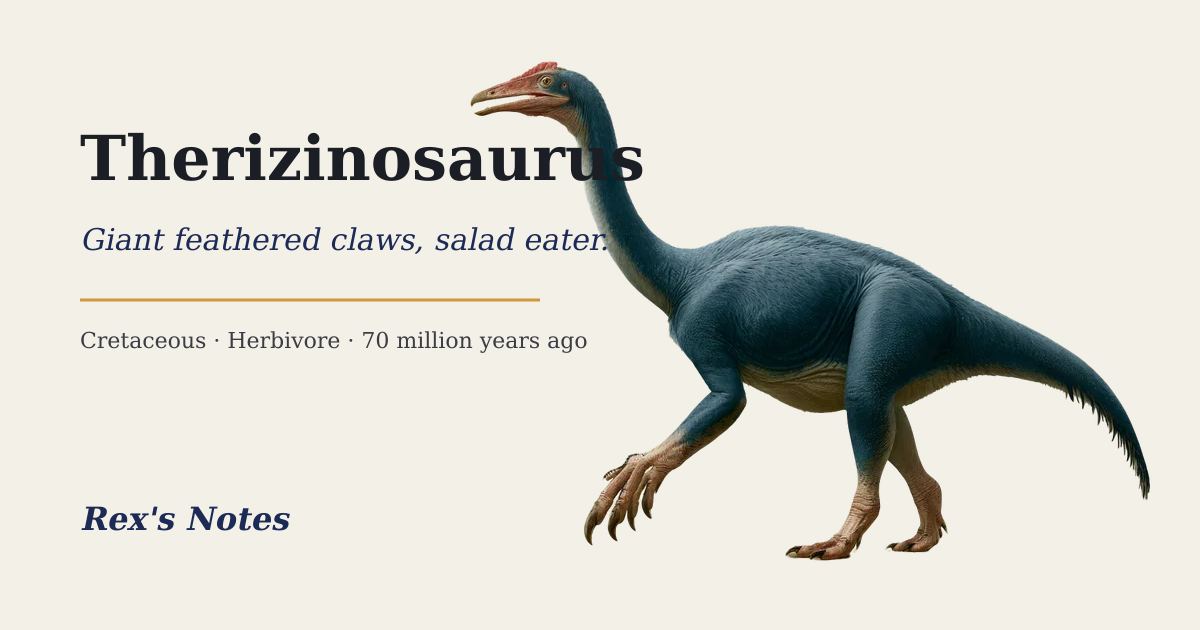
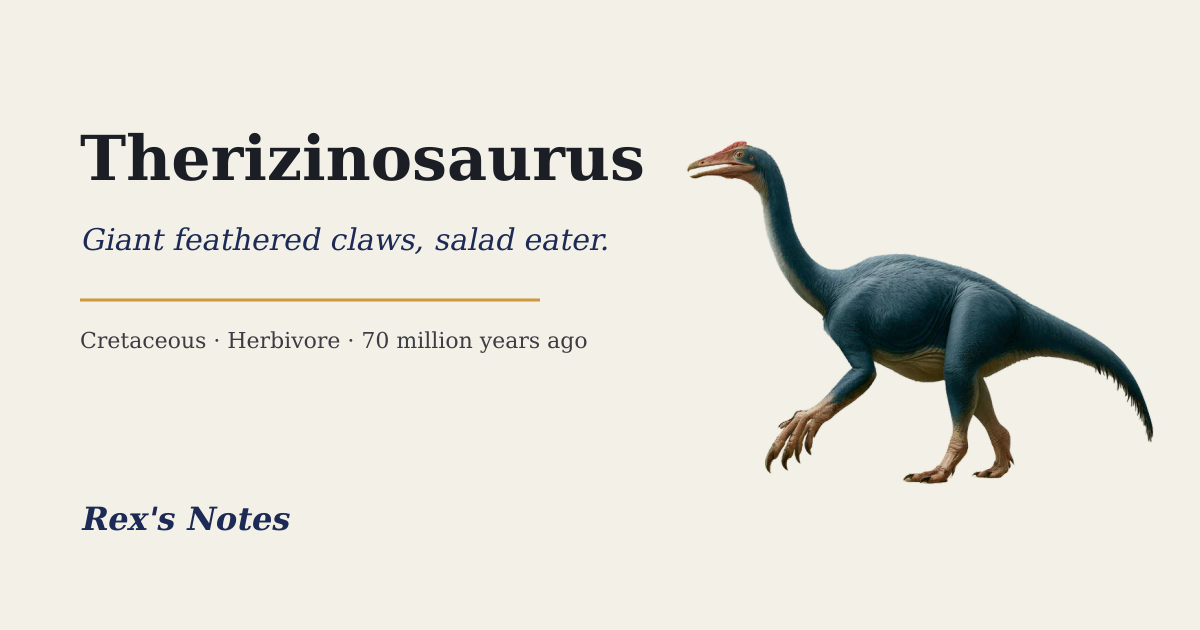
Fix OG layout overlap — home + per-species cap dino width
The home og-image had T. rex's tail covering 'Rex's Notes', so the
share preview read 'Rex's Not' with the dino sitting on the 'es'.
Tighter layout:

- Home og-image.png regenerated. Title font 110 -> 88px (spans ~380px
  in a 540px-wide panel), dino capped to 480x480 fit:inside (came
  out 480x340), positioned at x=660 with a 40px gap from the text.
  No overlap.
- og-gen.js (per-species) also caps cutout dimensions to 480x540
  fit:inside instead of just height: 540 (which let wide cutouts
  spill into the text). Re-run regenerated all 20 species OG images
  with the safer layout. They were mostly OK before but a few
  long-tailed ones were borderline.

Changed region(s): [[0.37, 0.0905, 0.9867, 0.9048]]

diff --git a/build/og-gen.js b/build/og-gen.js
@@ -31,9 +31,11 @@ const escape = (s) => s.replace(/&/g, '&amp;').replace(/</g, '&lt;').replace(/>/
       continue;
     }
 
-    // Cutout on the right, sized to fit the 630-tall canvas with margin.
+    // Cutout sized to fit the right column (~480x540). fit: 'inside'
+    // keeps aspect; capping BOTH dims means a long-tailed sauropod
+    // can't crash into the text panel on the left.
     const cutout = await sharp(croppedPath)
-      .resize({ height: 540, fit: 'inside', withoutEnlargement: true })
+      .resize({ width: 480, height: 540, fit: 'inside', withoutEnlargement: true })
       .png()
       .toBuffer();
     const cutoutMeta = await sharp(cutout).metadata();
